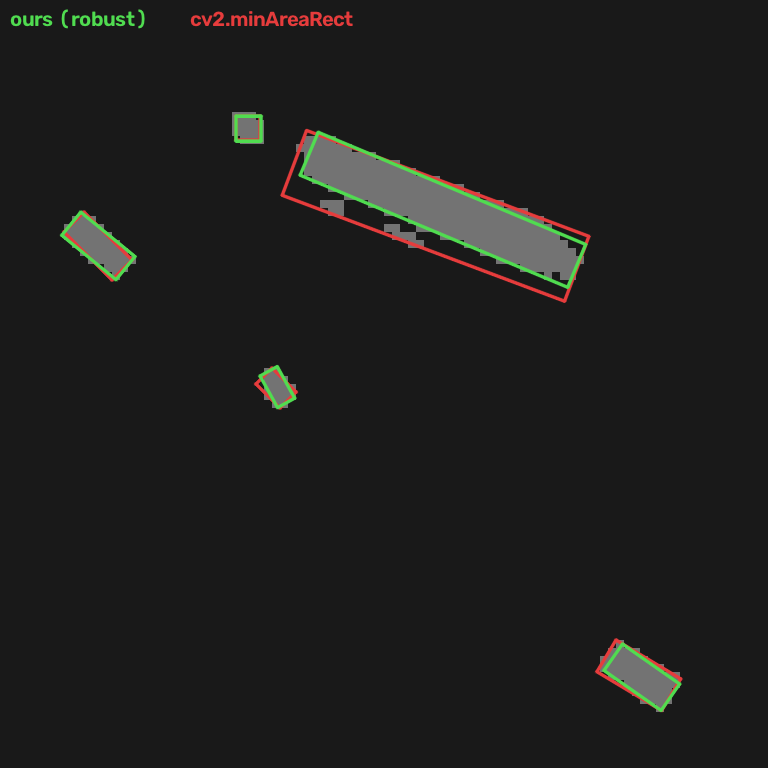
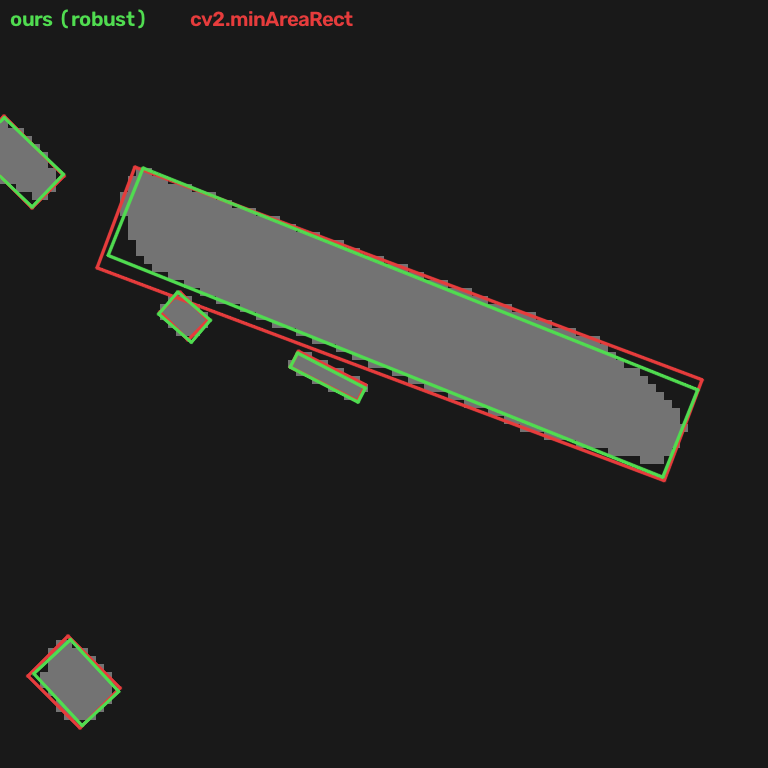
fix(data): use the original example mask from the brief
data/example_mask.jpg was a downscaled 1024x1024 JPEG copy of the chat
attachment; the brief's mask is a clean 2048x2048 binary PNG. Regenerate
blob_bounding_boxes.csv and the figure, and refresh every Part 2 number
in the README (147 blobs, mean IoU 0.8722 vs 0.7829 for minAreaRect).
Also document that boxes overhanging the image edge paint no pixels.

diff --git a/scripts/benchmark.py b/scripts/benchmark.py
@@ -1,6 +1,6 @@
 """Reproduce the Part 2 numbers and the figure quoted in the README.
 
-    uv run python scripts/benchmark.py [--mask data/example_mask.jpg] [--figure docs/blobs_zoom.png]
+    uv run python scripts/benchmark.py [--mask data/example_mask.png] [--figure docs/blobs_zoom.png]
 
 Prints markdown tables: results on the mask per objective, every objective's boxes scored
 under every raster model next to cv2.minAreaRect, IoU against the number of random
@@ -207,7 +207,7 @@ def zoom_figure(
 
 def main() -> None:
     parser = argparse.ArgumentParser(description=__doc__.splitlines()[0])
-    parser.add_argument("--mask", type=Path, default=Path("data/example_mask.jpg"))
+    parser.add_argument("--mask", type=Path, default=Path("data/example_mask.png"))
     parser.add_argument("--figure", type=Path, default=Path("docs/blobs_zoom.png"))
     args = parser.parse_args()
     mask = load_mask(args.mask)

diff --git a/README.md b/README.md
@@ -27,7 +27,7 @@ uv run ner-chat extract data/sample_report.pdf
 uv run ner-chat ask "How many times is Kestrel Orbital mentioned, and is NASA?" --model offline
 
 # Part 2: writes blob_bounding_boxes.csv
-uv run blob-boxes data/example_mask.jpg
+uv run blob-boxes data/example_mask.png
 
 # Tests (offline, no API key)
 uv run pytest
@@ -113,16 +113,16 @@ These checks are heuristics on free text. They catch wrong or invented counts an
 
 ## Part 2: blob bounding boxes
 
-IoU here is between pixel sets, as the brief describes it: the blob's pixels against "that mask defined by the rectangle itself (filled rectangle essentially)". The brief does not say how a rectangle is filled into pixels, so the fit supports four rasterisations and by default does well under all of them (see [Which mask does a rectangle define?](#which-mask-does-a-rectangle-define)). Treating the rectangle as a continuous polygon and each pixel as a unit square, as Shapely-style polygon IoU does, is a different metric with different optima. Under it, the default boxes, which are fitted to painted pixels, average 0.5830 against 0.5935 for `cv2.minAreaRect`, while the `--objective center` boxes average 0.7557.
+IoU here is between pixel sets, as the brief describes it: the blob's pixels against "that mask defined by the rectangle itself (filled rectangle essentially)". The brief does not say how a rectangle is filled into pixels, so the fit supports four rasterisations and by default does well under all of them (see [Which mask does a rectangle define?](#which-mask-does-a-rectangle-define)). Treating the rectangle as a continuous polygon and each pixel as a unit square, as Shapely-style polygon IoU does, is a different metric with different optima, and this tool does not optimise it. On the example mask, `cv2.minAreaRect` does best under it (mean 0.8652). The `--objective center` boxes average 0.8273, and the default boxes, which are fitted to painted pixels, average 0.7507.
 
 ### Usage
 
 ```bash
-uv run blob-boxes data/example_mask.jpg                        # -> blob_bounding_boxes.csv
+uv run blob-boxes data/example_mask.png                        # -> blob_bounding_boxes.csv
 uv run blob-boxes mask.npy --out boxes.csv --overlay overlay.png
 ```
 
-The mask can be a `.npy` 2D array (non-zero is foreground) or an image. An image whose values are all 0 or 1 is read as a 0/1 mask. Otherwise foreground is a grey value above `--threshold` (default 127), which suppresses most JPEG compression noise; a few stray pixels survive as tiny blobs. A mask with no foreground gives a CSV with only the header, plus a warning. Other options: `--objective` (see below), `--connectivity 4|8`, `--min-area`, `--restarts` (random restarts per blob, default 8; see the results below) and `--workers` (default: all CPUs). From Python:
+The mask can be a `.npy` 2D array (non-zero is foreground) or an image. An image whose values are all 0 or 1 is read as a 0/1 mask. Otherwise foreground is a grey value above `--threshold` (default 127), which suppresses most JPEG compression noise, though a few stray pixels can survive as tiny blobs. A mask with no foreground gives a CSV with only the header, plus a warning. Other options: `--objective` (see below), `--connectivity 4|8`, `--min-area`, `--restarts` (random restarts per blob, default 8; see the results below) and `--workers` (default: all CPUs). From Python:
 
 ```python
 from pathlib import Path
@@ -136,27 +136,29 @@ write_csv(fits, Path("blob_bounding_boxes.csv"))
 Output for the example mask (the CSV is included as `blob_bounding_boxes.csv`):
 
 ```text
-136 blobs in 2.06s -> blob_bounding_boxes.csv
-IoU mean 0.8305 / median 0.8335  (minAreaRect baseline mean 0.7179, improved on 126 of 136 blobs)
+147 blobs in 2.55s -> blob_bounding_boxes.csv
+IoU mean 0.8722 / median 0.8757  (minAreaRect baseline mean 0.7829, improved on 146 of 147 blobs)
 
 blob_id,center_x,center_y,width,height,angle
-1,365.5625,256.0625,2.125,1.125,-90.0
-2,507.5723,435.2879,1.4841,1.0592,24.104
+1,732.2641,512.1355,5.6147,2.5173,50.8467
+2,1015.7309,871.0608,3.6671,1.7388,56.8534
 ...
 ```
 
 The coordinates follow OpenCV's `RotatedRect`. `x` is the column and `y` the row, and pixel centres sit at integer coordinates. `width >= height`, the angle is in degrees in [-90, 90), and the width side points along (cos angle, sin angle) with y pointing down. `cv2.boxPoints(((center_x, center_y), (width, height), angle))` gives the corners. Blob ids are 1..N in raster order of each blob's first pixel, the same numbering as `scipy.ndimage.label` (OpenCV's labels are renumbered to match). Values are rounded to 4 decimals, and the reported IoU is computed on the rounded boxes, so it can be reproduced from the CSV.
 
-Four boxes in the example have height 0, a segment. Blobs 86 and 89 are straight lines of pixel centres, which every rasterisation paints as exactly the blob (IoU 1), and `cv2.minAreaRect` gives the same segment. Blobs 22 and 85 have 7 and 4 pixels and are two pixels wide in places; a segment still scores best for them under the default objective (IoU 0.7143 and 0.75). A single-pixel blob gets a 0 x 0 box. Such boxes have no area, so a metric that measures the rectangle as a polygon scores them 0, and under `center` they cover only the pixel centres exactly on them.
+On the example mask every blob has at least 11 pixels, and no box is degenerate. On other masks, a blob that is a straight line of pixel centres gets a box of height 0, a segment. Every rasterisation paints that segment as exactly the blob (IoU 1), and `cv2.minAreaRect` returns the same segment. A single pixel gets a 0 x 0 box, and a tiny blob that is not quite a line can also get a segment when that scores best. Such boxes have no area, so a metric that measures the rectangle as a polygon scores them 0, and under `center` they cover only the pixel centres exactly on them.
 
 ### Which mask does a rectangle define?
 
-The task asks for the IoU between the blob and "the mask defined by the rectangle", but does not say how a rectangle becomes pixels. That matters here: the median blob in the example has 12.5 pixels, and on blobs that small half a pixel per side changes IoU a lot. `blob-boxes` supports four exact rasterisations:
+The task asks for the IoU between the blob and "the mask defined by the rectangle", but does not say how a rectangle becomes pixels. That matters here: the median blob in the example has 48 pixels, about 7 x 7, and on blobs that small half a pixel per side changes IoU a lot. `blob-boxes` supports four exact rasterisations:
 
 - `center`: pixels whose centre lies inside the closed rectangle (the point-sampling rule of GDAL/rasterio and scikit-image).
 - `subpixel`: `cv2.fillPoly` of the `cv2.boxPoints` polygon at 1/16-pixel precision.
 - `round`: `cv2.fillPoly` of the corners rounded to integers.
 - `truncate`: `cv2.fillPoly` of the corners truncated to integers, which is what `np.intp(box)` or `box.astype(int)` in the OpenCV tutorials does.
+
+All four paint onto the image grid, so the part of a box that overhangs the image edge paints no pixels and does not count against it.
 
 `cv2.fillPoly` paints every pixel the outline touches, so the three fill models paint about half a pixel more per side than `center`. A box tuned for one model does badly under the others (second table below). The default objective, `robust`, maximises the mean IoU over all four. It gives up some IoU under each single model, but on the example mask its mean IoU stays above `cv2.minAreaRect`'s under every one of them, which no single-model objective manages. If you know which rasterisation will be used, pass it with `--objective`.
 
@@ -177,42 +179,42 @@ The `minAreaRect` seeds stay among the candidates, so before rounding the result
 
 `uv run python scripts/benchmark.py` reproduces these numbers and the figure on an Apple M3 Pro (6 performance and 6 efficiency cores; times are the best of three runs). It recomputes every IoU from the CSV boxes with full-image rasterisation and fails if any reported IoU or baseline disagrees.
 
-Example mask (1024x1024, 136 blobs):
+Example mask (2048x2048, 147 blobs):
 
 | Objective | Mean IoU | Median | Min | `cv2.minAreaRect` | Better than it | 1 process | 12 processes |
 |---|---|---|---|---|---|---|---|
-| `robust` (default) | 0.8305 | 0.8335 | 0.5848 | 0.7179 | 126/136 | 8.7 s | 2.0 s |
-| `center` | 0.9548 | 1.0000 | 0.6923 | 0.7066 | 131/136 | 6.6 s | 1.9 s |
-| `subpixel` | 0.8915 | 0.8881 | 0.6429 | 0.7399 | 123/136 | 7.1 s | 1.8 s |
-| `round` | 0.8909 | 0.8889 | 0.6250 | 0.7395 | 122/136 | 7.2 s | 1.9 s |
-| `truncate` | 0.8910 | 0.8889 | 0.6250 | 0.6855 | 130/136 | 7.4 s | 2.1 s |
+| `robust` (default) | 0.8722 | 0.8757 | 0.8006 | 0.7829 | 146/147 | 10.3 s | 2.4 s |
+| `center` | 0.9542 | 0.9565 | 0.8258 | 0.8328 | 147/147 | 7.1 s | 1.8 s |
+| `subpixel` | 0.9040 | 0.9048 | 0.8113 | 0.7761 | 144/147 | 7.3 s | 1.9 s |
+| `round` | 0.9035 | 0.9048 | 0.8113 | 0.7737 | 144/147 | 7.4 s | 2.2 s |
+| `truncate` | 0.9036 | 0.9040 | 0.8113 | 0.7490 | 144/147 | 7.4 s | 2.0 s |
 
 The other blobs tie with `minAreaRect`; none is worse. The same boxes scored under every rasterisation (mean IoU):
 
 | Boxes | `center` | `subpixel` | `round` | `truncate` | Worst |
 |---|---|---|---|---|---|
-| ours, `robust` | 0.8349 | 0.8667 | 0.8680 | 0.7521 | 0.7521 |
-| ours, `center` | 0.9548 | 0.5766 | 0.5706 | 0.5550 | 0.5550 |
-| ours, `subpixel` | 0.5184 | 0.8915 | 0.8358 | 0.6116 | 0.5184 |
-| ours, `round` | 0.5333 | 0.8225 | 0.8909 | 0.5991 | 0.5333 |
-| ours, `truncate` | 0.5070 | 0.7651 | 0.7689 | 0.8910 | 0.5070 |
-| `cv2.minAreaRect` | 0.7066 | 0.7399 | 0.7395 | 0.6855 | 0.6855 |
+| ours, `robust` | 0.8590 | 0.8884 | 0.8883 | 0.8531 | 0.8531 |
+| ours, `center` | 0.9542 | 0.7431 | 0.7437 | 0.6939 | 0.6939 |
+| ours, `subpixel` | 0.7071 | 0.9040 | 0.8787 | 0.7368 | 0.7071 |
+| ours, `round` | 0.7032 | 0.8737 | 0.9035 | 0.7343 | 0.7032 |
+| ours, `truncate` | 0.6965 | 0.8347 | 0.8391 | 0.9036 | 0.6965 |
+| `cv2.minAreaRect` | 0.8328 | 0.7761 | 0.7737 | 0.7490 | 0.7490 |
 
 More random restarts keep finding small gains. They never lower a blob's IoU, because each blob's random sequence is fixed and a restart only replaces the incumbent if it scores higher (`robust`, 12 processes):
 
 | `--restarts` | Mean IoU | Blobs better than with 8 | Time |
 |---|---|---|---|
-| 0 | 0.8151 | 0 (74 worse) | 1.2 s |
-| 8 (default) | 0.8305 | - | 2.1 s |
-| 16 | 0.8328 | 27 | 3.0 s |
-| 32 | 0.8348 | 40 | 5.2 s |
-| 64 | 0.8359 | 52 | 9.0 s |
+| 0 | 0.8682 | 0 (71 worse) | 1.3 s |
+| 8 (default) | 0.8722 | - | 2.5 s |
+| 16 | 0.8734 | 35 | 3.8 s |
+| 32 | 0.8739 | 52 | 6.5 s |
+| 64 | 0.8745 | 67 | 11.1 s |
 
 As a correctness check with known answers, 200 random rectangles (2-40 px by 1-12 px, any angle) were painted with each rasterisation and fitted with the matching objective. All 200 came back with IoU 1 under `subpixel`, `round` and `truncate`, and 199 under `center`, where the worst was 0.9933.
 
 ![Our boxes (green, robust objective) and cv2.minAreaRect (red) on part of the example mask, 8x zoom](docs/blobs_zoom.png)
 
-The figure shows the window of the example mask where the fit gains most. On the long blob, `cv2.minAreaRect` has to cover a few stray pixels and becomes much wider than the blob; the IoU-optimal box leaves them out.
+The figure shows the window of the example mask where the fit gains most. The long blob tapers at both ends, so `cv2.minAreaRect` has to enclose the tapered corners and comes out wider than the blob; the IoU-optimal box trims them.
 
 ## Tests
 
@@ -233,10 +235,10 @@ src/iceye_homework/
                   agent.py (tools, grounding validator), offline.py, cli.py
   blobs/          Part 2: fit.py (search), geometry.py (rasterisation, exact IoU), io.py, cli.py
 tests/            entities.json fixture, one test per part
-data/             example_mask.jpg (from the brief), sample_report.pdf, sample_scan.png
+data/             example_mask.png (from the brief), sample_report.pdf, sample_scan.png
 scripts/          benchmark.py (Part 2 numbers and figure), make_samples.py (sample documents)
 docs/             blobs_zoom.png
-blob_bounding_boxes.csv   Part 2 result for data/example_mask.jpg
+blob_bounding_boxes.csv   Part 2 result for data/example_mask.png
 ```
 
 `data/sample_report.pdf` is a fictional one-page report with a text layer, and `data/sample_scan.png` is the same page rasterised at 150 dpi, slightly rotated and blurred, to exercise OCR. `uv run scripts/make_samples.py` regenerates both; its dependencies, including PyMuPDF, are declared inline (PEP 723) so they stay out of the project. Code style is checked with `uv run ruff check` and `uv run ruff format --check`.
